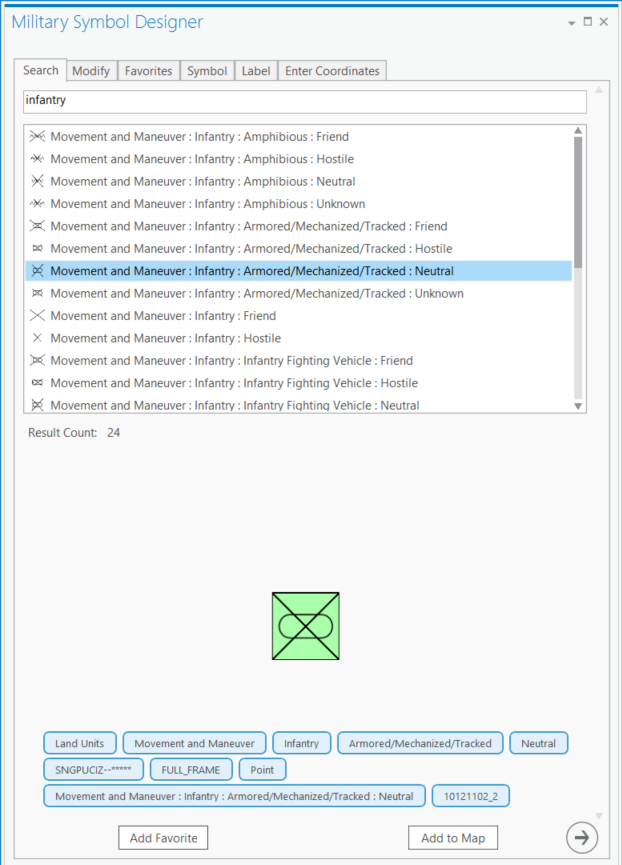
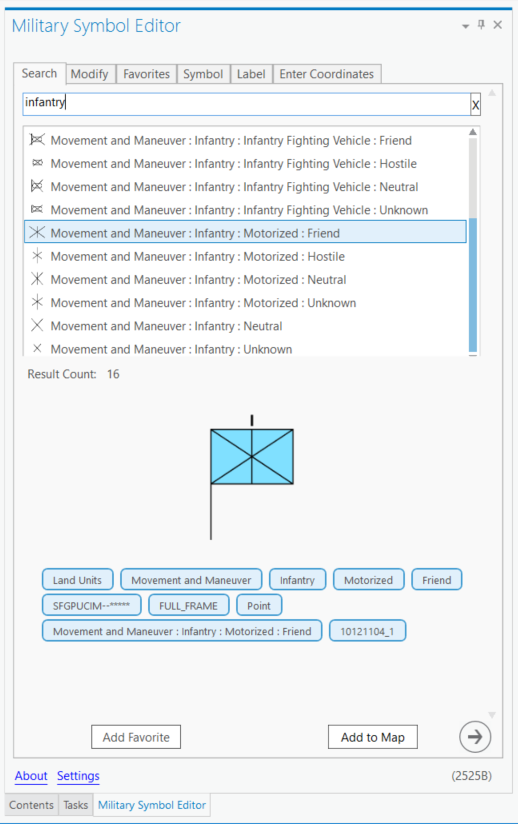
Update Readme + Screenshot

Changed region(s): [[0.0, 0.0, 1.0, 1.0], [0.0618, 0.6675, 0.8958, 0.7888]]

diff --git a/README.md b/README.md
@@ -25,12 +25,12 @@ A user-focused addin for searching, creating, and editing military symbols in Ar
 ### Developers
 
 * Visual Studio 2015
-* ArcGIS Pro 1.2+
-* ArcGIS Pro 1.2+ SDK
+* ArcGIS Pro 1.4+
+* ArcGIS Pro 1.4+ SDK
 
 ### Users
 
-* ArcGIS Pro 1.2+
+* ArcGIS Pro 1.4+
 
 ## Instructions
 
@@ -44,9 +44,6 @@ A user-focused addin for searching, creating, and editing military symbols in Ar
 
 * Building
 	* To Build Using Visual Studio 2015
-		* Open and build solution file
-	* To Build Using Visual Studio 2013
-		* Install the .NET 4.5.2 Dev Pack
 		* Open and build solution file
 	* To use MSBuild to build the solution
 		* Open a Visual Studio Command Prompt: Start Menu | Visual Studio 2015 | Visual Studio Tools | Developer Command Prompt for VS2015
@@ -67,13 +64,14 @@ A user-focused addin for searching, creating, and editing military symbols in Ar
 
 * Running
 	* To run from a stand-alone deployment in ArcGIS Pro:
-	* Download and obtain the add-in. The add-in may be obtained from
-		* As part of the Military Overlay Template (version 1.1.0+) - http://esriurl.com/AFDMilitaryOverlay
-		* Included in the repository releases: https://github.com/Esri/military-symbol-editor-addin-wpf/releases
-        * Install the add-in by double clicking on the downloaded .addin file
+	* Download and install the add-in. The add-in may be obtained from
+		* Included with [Military Tools for ArcGIS](https://esri.github.io/military-tools-desktop-addins)
+		* As part of the [Military Overlay Template](http://esriurl.com/AFDMilitaryOverlay) (version 1.1.0+) - 
+		* [ArcGIS for Defense Downloads](http://appsforms.esri.com/products/download/#ArcGIS_for_Defense)
+        * Install the add-in by double clicking on the downloaded .esriAddinX file in the download
     * Run the add-in
 		* Run ArcGIS Pro
-		* The ADD-IN appears under the "ADD-IN" tab in Pro	
+		* The ADD-IN appears under the "ADD-IN" tab in Pro
 		* Click the "Military Symbol Editor" button and the tool will appear
 		* Note: If you do not already have the Military Overlay Information Model/GDB included in your project you will be prompted to add when you use the addin.
 			* Click "Yes" at the prompt: "Would you like to add the Military Overlay Layer Package to add the schema to your project?"
@@ -101,7 +99,6 @@ A user-focused addin for searching, creating, and editing military symbols in Ar
 		* The Enter Coordinates tab is the sixth tab:
 			* Coordinates can be entered in DD, DMS, DD, MGRS, or [other coordinate systems] (https://github.com/Esri/coordinate-conversion-addin-dotnet#features).
 			* Once valid coordinates are entered, a button can be clicked to add a feature to those coordinates.
-			* Invalid coordinates will show with a red box around it.
 		* At any time/tab in this process, the "Add to Map" button, included on every tab, can be clicked to graphically add the feature to the map by clicking.
 
 ## Workflows
@@ -152,29 +149,41 @@ A user-focused addin for searching, creating, and editing military symbols in Ar
     If the symbol is for a line or area feature, press the **Enter** key and continue adding coordinates.
 3. Click **Add Coordinates to Map**.
     The symbol is added to the map at the coordinates you specified.
-	
+
 ### Add a symbol to your Favorites
 1. After you've selected a symbol in the Military Symbol Editor, click the **Add Favorite** button.
 2. Click the **Favorites** tab.
     You should see the symbol in the favorites box.
 3. Optionally, define other symbols that you will need. Add each one to your Favorites.
     Click a symbol in your favorites to add it to the map.
-	
+
+### Sharing Favorites
+1. The Favorites file: `SymbolFavorites.json` is stored with the add-in at (Note: you may copy/paste this path into File Explorer):
+    a. Military Symbol Editor Add-in: `%LOCALAPPDATA%\ESRI\ArcGISPro\AssemblyCache\{4ff462b0-2910-47f3-b6fd-d1d17e5f7dfc}`
+    b. Military Tools for ArcGIS Add-in: `%LOCALAPPDATA%\ESRI\ArcGISPro\AssemblyCache\{bea7f059-c69e-4e17-84bd-072236629c0c}`
+2. You may copy, replace, or share this favorites file(`SymbolFavorites.json`) by copying to the same location on machines **with the same version of the Military Symbol Editor installed**
+3. Manually editing or creating this file outside of the add-in is not generally supported
+    a. This file must match the JSON format/model of the current add-in.
+    b. This model is JSON-serialized from [this class](./source/ProSymbolEditor/Models/SymbolAttributes/SymbolAttributeSet.cs).
+
 ### Edit the symbol for a military feature that is already on the map
-1. In an ArcGIS Pro map or table, select the military feature that you want to change with the select tool.
-2. Click the **Modify** tab in the Military Symbol Editor.
-3. Click the appropriate feature in the list on this tab.
-4. The feature's attribute data will load into the **Symbol** and **Label** tabs for editing.
-5. Click the Save Edits button to write the edits back to the feature.
+1. Click the **Modify** tab in the Military Symbol Editor.
+2. Activate the select tool on the Modify pane.
+3. On the map, select the military feature that you want to change with the select tool.
+4. Click the appropriate feature in the list on this tab.
+5. The feature's attribute data will load into the **Symbol** and **Label** tabs for editing.
+6. Click the Save Edits button to write the edits back to the feature.
 
 ## Resources
 
-* [ArcGIS Pro Help](http://pro.arcgis.com/en/pro-app/)
-* [ArcGIS Blog](http://blogs.esri.com/esri/arcgis/)
-* ![Twitter](https://g.twimg.com/twitter-bird-16x16.png)[@EsriDefense](http://twitter.com/EsriDefense)
+* [Military Tools for ArcGIS](http://solutions.arcgis.com/defense/help/military-tools/)
+* [ArcGIS for Defense Downloads](http://appsforms.esri.com/products/download/#ArcGIS_for_Defense)
 * [ArcGIS Solutions Website](http://solutions.arcgis.com/military/)
 * [Military Overlay Template](http://esriurl.com/AFDMilitaryOverlay)
 * [Military Overlay Information Model Template](http://esriurl.com/MilitaryOverlayInformationModel)
+* [ArcGIS Pro Help](http://pro.arcgis.com/en/pro-app/)
+* [ArcGIS Blog](http://blogs.esri.com/esri/arcgis/)
+* ![Twitter](https://g.twimg.com/twitter-bird-16x16.png)[@EsriDefense](http://twitter.com/EsriDefense)
 
 ## Issues
 
@@ -188,16 +197,14 @@ Anyone and everyone is welcome to contribute. Please see our [guidelines for con
 
 ### Repository Points of Contact
 
-#### Repository Owners
-
-##### Primary - [Travis](https://github.com/tlauver)
+##### Primary - [Chris](https://github.com/csmoore)
 
 * Merge Pull Requests
 * Creates Releases and Tags
 * Manages Milestones
 * Manages and Assigns Issues
 
-##### Secondary: [Chris](https://github.com/csmoore)
+##### Secondary: [Kevin](https://github.com/kgonzago)
 
 * Backup when the Owner is away
 
@@ -210,16 +217,14 @@ This software is governed by [the Apache V2 License](http://www.apache.org/licen
 * Military Features Data - .stylx file and symbol data - https://github.com/Esri/military-features-data
 * MIL_STD_2525D_Symbols - SVG Symbols - https://github.com/Esri/joint-military-symbology-xml/tree/master/svg or [MIL_STD_2525D_Symbols license](./source/ProSymbolEditor/Images/MIL_STD_2525D_Symbols/license.txt)
 * Coordinate Conversion Addin - Coordinate Conversion library - https://github.com/Esri/coordinate-conversion-addin-dotnet
-* Military Symbols.NET - 2525 SVG drawing library - https://github.com/csmoore/military-symbols-dotnet
 
 This software is governed by [the Microsoft Public License (Ms-PL)](http://wpftoolkit.codeplex.com/license):
 
 * Extended WPF Toolkit Community Edition - http://wpftoolkit.codeplex.com
-* SVG Rendering Engine - https://github.com/vvvv/SVG http://svg.codeplex.com/
 
 ## Licensing
 
-Copyright 2016 Esri
+Copyright 2016-2017 Esri
 
 Licensed under the Apache License, Version 2.0 (the "License");
 you may not use this file except in compliance with the License.
